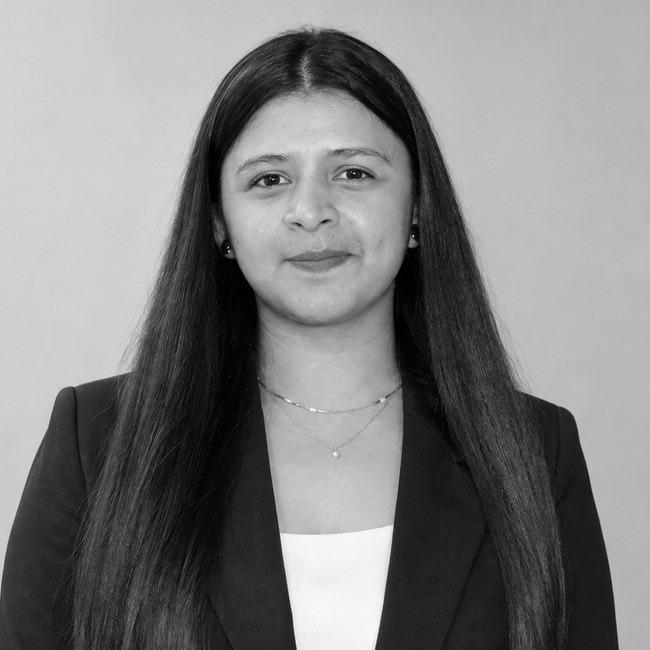
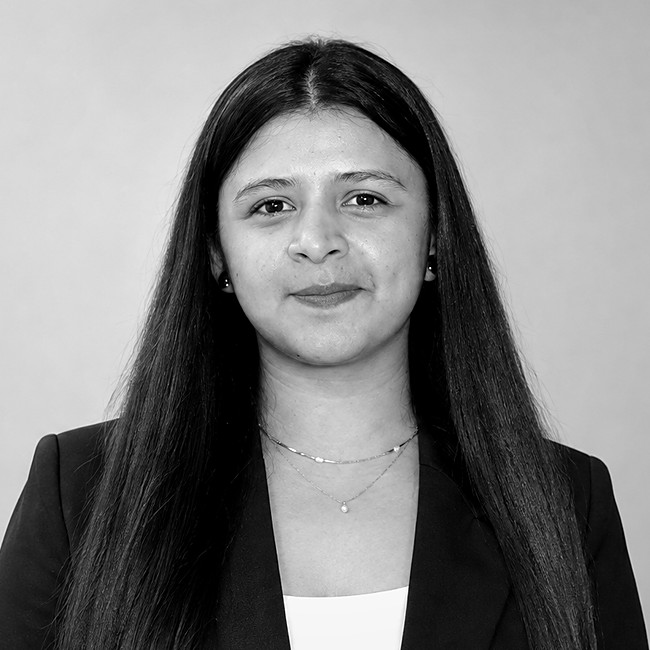
Team: Lisa's retouched photo; title AI Marketing Specialist

Changed region(s): [[0.0308, 0.0308, 1.0, 1.0], [0.0, 0.7692, 0.0308, 0.9538]]

diff --git a/index.html b/index.html
@@ -10,7 +10,7 @@
 <link rel="preconnect" href="https://fonts.googleapis.com">
 <link rel="preconnect" href="https://fonts.gstatic.com" crossorigin>
 <link rel="stylesheet" href="https://fonts.googleapis.com/css2?family=Cormorant+Garamond:ital,wght@0,400;0,500;0,600;0,700;1,500;1,600&family=Montserrat:wght@300..700&family=Jost:wght@300..500&family=Mrs+Saint+Delafield&display=swap">
-<link rel="stylesheet" href="css/style.css?v=20261008c">
+<link rel="stylesheet" href="css/style.css?v=20261008d">
 <!-- Google Analytics 4 (Consent Mode): everything starts "denied". js/analytics.js loads Google's tag only after the visitor allows Analytics. -->
 <script>
   window.dataLayer = window.dataLayer || [];
@@ -84,15 +84,15 @@
 
 <script src="https://cdnjs.cloudflare.com/ajax/libs/leaflet/1.9.4/leaflet.min.js"></script>
 <script src="https://cdnjs.cloudflare.com/ajax/libs/pdf-lib/1.17.1/pdf-lib.min.js"></script>
-<script src="js/config.js?v=20261008c"></script>
-<script src="js/consent.js?v=20261008c"></script>
-<script src="js/data.js?v=20261008c"></script>
-<script src="js/insights.js?v=20261008c"></script>
-<script src="js/charts.js?v=20261008c"></script>
-<script src="js/brochure.js?v=20261008c"></script>
-<script src="js/nda.js?v=20261008c"></script>
-<script src="js/app.js?v=20261008c"></script>
-<script src="js/assistant.js?v=20261008c"></script>
-<script src="js/analytics.js?v=20261008c"></script>
+<script src="js/config.js?v=20261008d"></script>
+<script src="js/consent.js?v=20261008d"></script>
+<script src="js/data.js?v=20261008d"></script>
+<script src="js/insights.js?v=20261008d"></script>
+<script src="js/charts.js?v=20261008d"></script>
+<script src="js/brochure.js?v=20261008d"></script>
+<script src="js/nda.js?v=20261008d"></script>
+<script src="js/app.js?v=20261008d"></script>
+<script src="js/assistant.js?v=20261008d"></script>
+<script src="js/analytics.js?v=20261008d"></script>
 </body>
 </html>

diff --git a/js/data.js b/js/data.js
@@ -494,7 +494,7 @@ const TEAM = [
  {
   "slug": "lisa-roman-foss",
   "name": "Lisa Roman Foss",
-  "role": "Marketing & Business Intelligence Analyst · AI Marketing Specialist",
+  "role": "AI Marketing Specialist",
   "img": "assets/img/team/lisa-roman-foss.jpg",
   "email": "lfoss@outliergroup.us",
   "phone": "(774) 420-0002",
@@ -508,7 +508,7 @@ const TEAM = [
   "facts": [
    [
     "Role",
-    "Marketing & Business Intelligence Analyst · AI Marketing Specialist"
+    "AI Marketing Specialist"
    ],
    [
     "Expertise",
